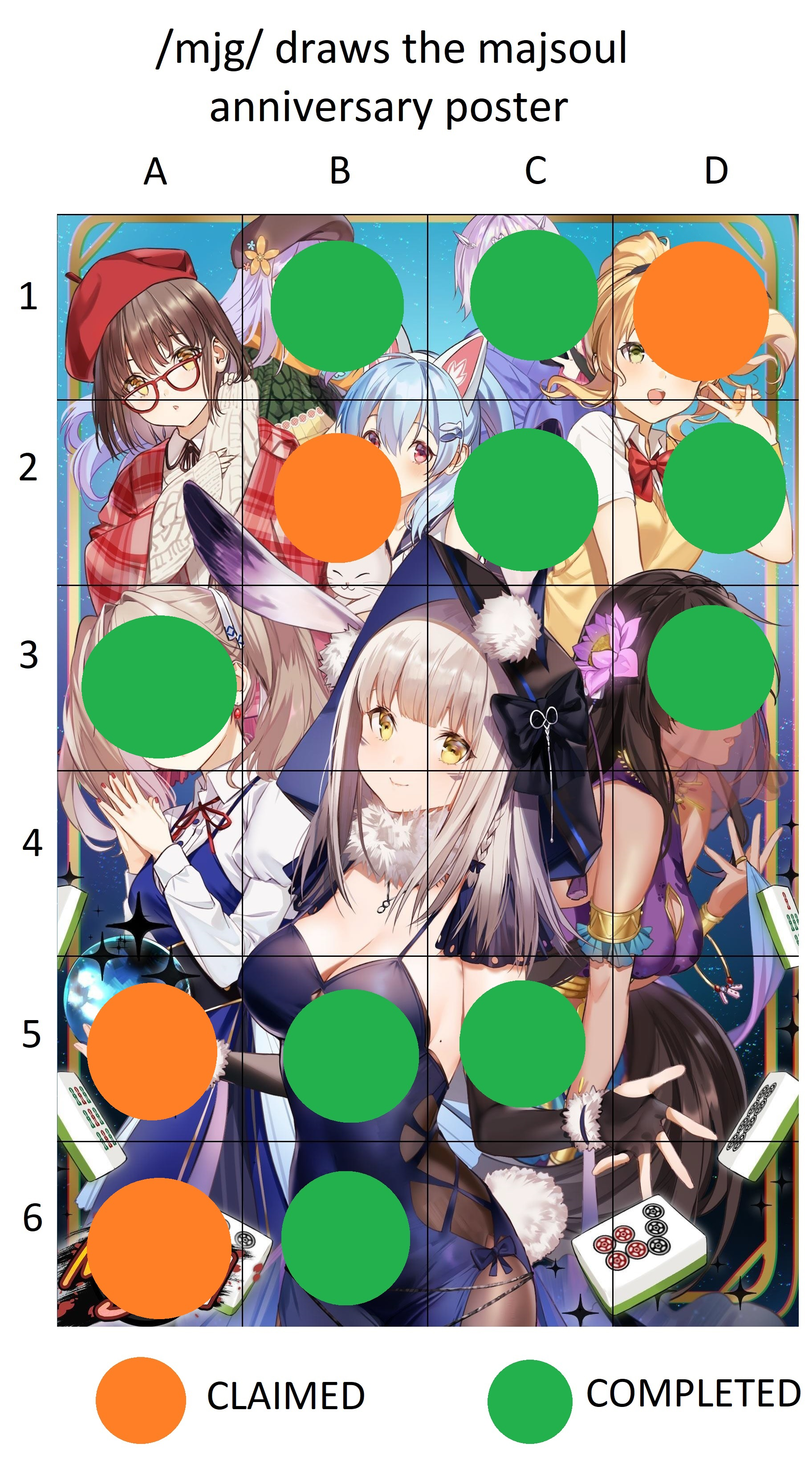
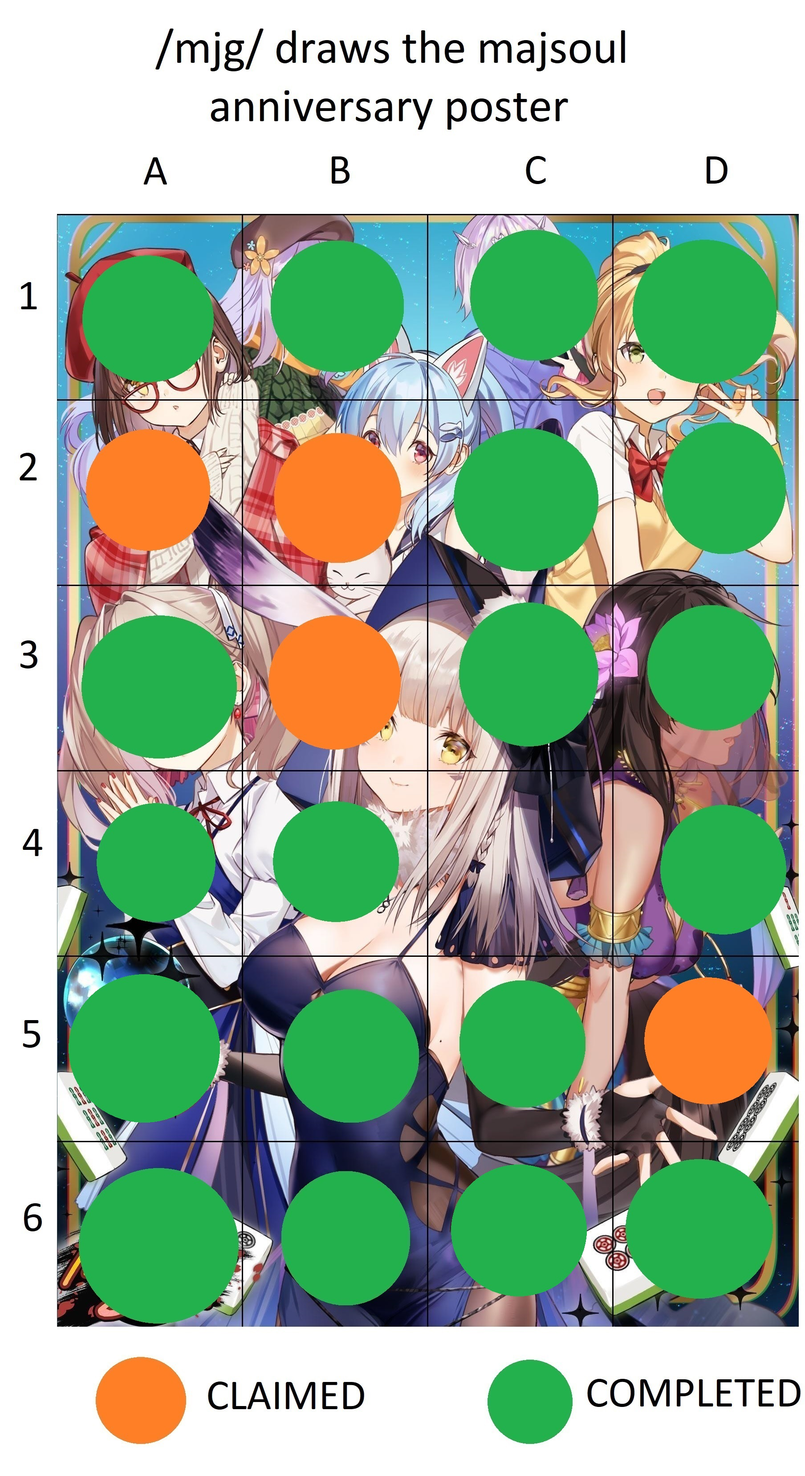
drawfags updae

diff --git a/index.html b/index.html
@@ -114,7 +114,7 @@ time_is_widget.init({UTC_za00:{}});
     <div id="flower">
       <div id="updates">
         <ul>       
-          <li class="smaller"><a href="comic pages/one shots/mjgdraws.html"><strong>/mjg/ draws (1/2 done)</strong></a> <em>(OC)</em><strong><br>
+          <li class="smaller"><a href="comic pages/one shots/mjgdraws.html"><strong>/mjg/ draws (almost done)</strong></a> <em>(OC)</em><strong><br>
           </strong>You claim a square, let's say "A5", which is the square with Kaavi's boobs, then you open a 415px*415px paint archive or whatever and draw what's on the square you claimed. It's that easy!</li>
           <li class="smaller"><a href="comic pages/doraichi/p32.html"><strong>DoraIchihimon Episode 032</strong></a> <em>(webcomic)</em><strong><br>
           </strong>I wish I was the shota....</li>
